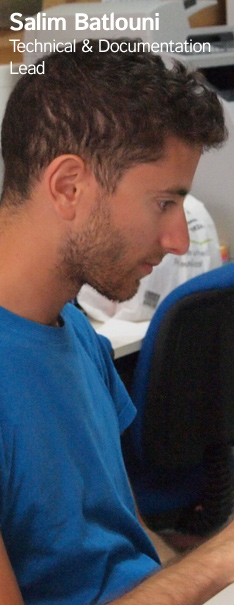
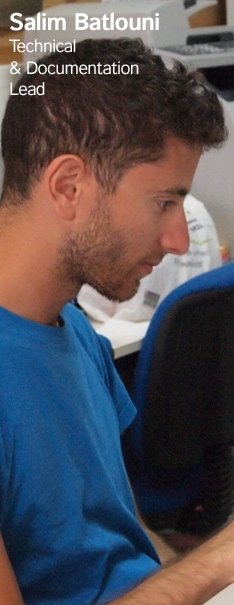
comment cleaning and new image of salim

Changed region(s): [[0.0299, 0.0595, 0.8974, 0.1785]]

diff --git a/source/stylesheets/all.css.scss b/source/stylesheets/all.css.scss
@@ -139,7 +139,6 @@ section{
 		margin: 0;
 		border-left: solid 1px white;
 		display: inline-block;
-		// white-space: nowrap;
 		
 		figure{
 			margin-top: 0;
@@ -178,7 +177,6 @@ footer{
 		width: 100%;
 		margin: 0;
 		height: 0;
-		// overflow: hidden;
 		background-image: url('../images/sponsors.png');
 		background-color: black;
 		background-size: 100%;
@@ -189,8 +187,6 @@ footer{
 		
 		&.show{
 			height: 10em;
-			// overflow: visible;
-
 		}
 	}
 	
